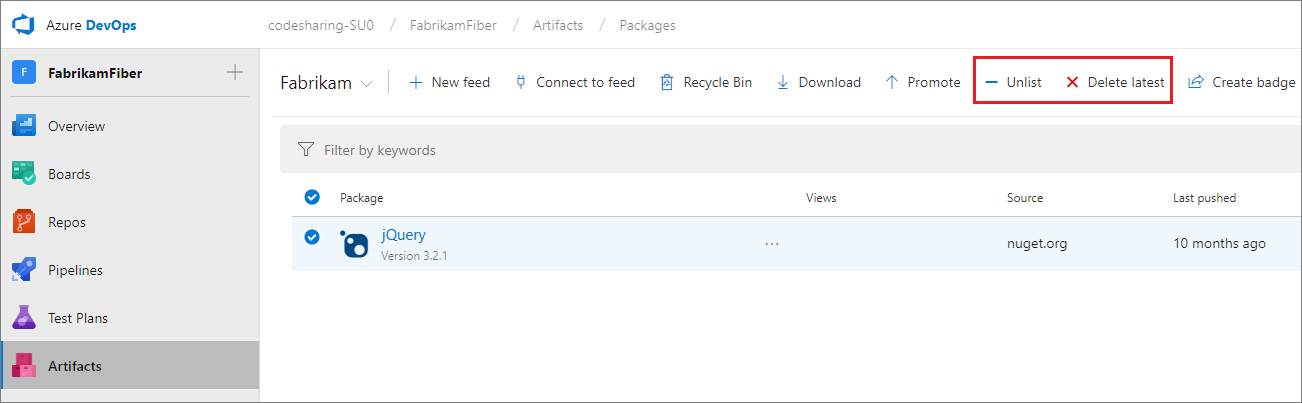
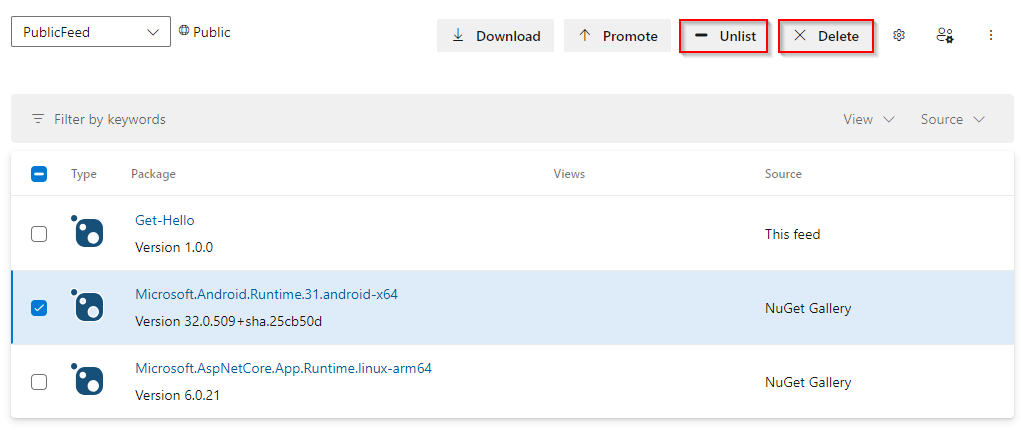
fix steps & screenshot

diff --git a/docs/artifacts/how-to/delete-and-recover-packages.md b/docs/artifacts/how-to/delete-and-recover-packages.md
@@ -43,7 +43,7 @@ Two options are available to delete a NuGet package from your feed, [Unlist](#qa
 
 1. Select **Artifacts**, and then select your feed.
 
-1. Select the package that you want to delete or deprecate, and then select **Unlist** or **Delete latest**.
+1. Select the package that you want to delete or deprecate, and then select **Unlist** or **Delete**.
 
     :::image type="content" source="../media/delete/unlist-delete-nuget-package-newnav.png" alt-text="Screenshot that shows buttons for unlisting and deleting NuGet packages.":::
 
@@ -239,7 +239,7 @@ Follow the steps below to set up retention policies for your feed:
 
     :::image type="content" source="../media/feed-settings.png" alt-text="A screenshot showing how to navigate to feed settings.":::
 
-1. Select **Feed details**, and then select the **Enable package retention** checkbox. Then enter values for:
+1. Select **Feed details**, and then select the **Enable package retention** checkbox. Specify a value for both the **Maximum number of versions per package** and **Days to keep recently downloaded packages**.
 
     :::image type="content" source="../media/retention-policy-settings.png" alt-text="Screenshot that shows how to enable retention policies for your feed.":::
     
@@ -253,14 +253,15 @@ Follow the steps below to set up retention policies for your feed:
 
 ::: moniker range="tfs-2018"
 
-1. Select **Build and Release**.
+1. Navigate to your project `http://ServerName:8080/tfs/DefaultCollection/<ProjectName>`.
 
-1. Select **Packages**, and then select the gear icon ![gear icon](../../media/icons/gear-icon.png) to access your feed's settings. 
+1. Select **Build and Release**, and then select **Packages**.
+
+1. Select the gear icon ![gear icon](../../media/icons/gear-icon.png) to access your feed's settings. 
 
     :::image type="content" source="../media/edit-feed-full.png" alt-text="Screenshot that shows how access the feed's settings in Team Foundation Server.":::
 
-
-1. From the **Retention** tab, enter values for:
+1. From the **Retention** tab, specify a value for both the **Maximum number of versions per package** and **Days to keep recently downloaded packages**.
     
     :::image type="content" source="../media/retention-policy-settings-tfs.png" alt-text="Screenshot that shows retention policies in Team Foundation Server.":::
    
@@ -296,6 +297,8 @@ Deleted packages remain in the Recycle Bin for 30 days. After that, they'll be p
 ::: moniker-end
 
 ::: moniker range="tfs-2018"
+
+1. Navigate to your project `http://ServerName:8080/tfs/DefaultCollection/<ProjectName>`.
 
 1. Select **Build and Release**, and then select **Packages**. 
 
